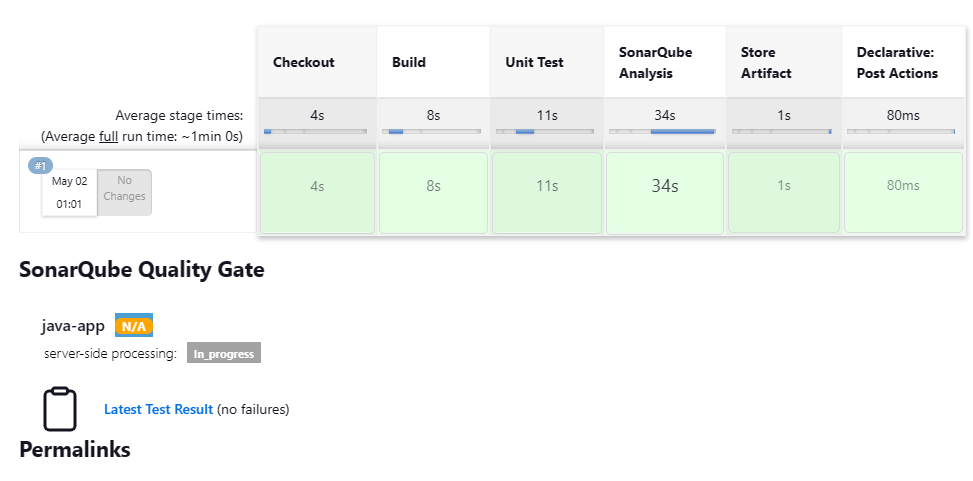
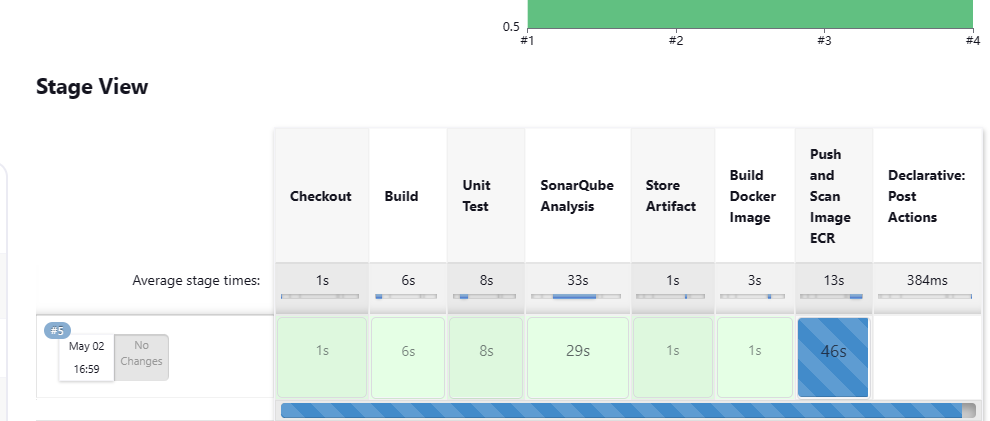
updated README.md with new features

diff --git a/README.md b/README.md
@@ -8,16 +8,18 @@
 
 ![Pipeline](/images/pipeline-diagram.jpg)
 
-This project demonstrates a continuous integration and continuous delivery (CI/CD) pipeline for a Java application using Jenkins. The pipeline automates the build, test, static code analysis, and artifact deployment processes.
+This project demonstrates a continuous integration and continuous delivery (CI/CD) pipeline for a Java application using Jenkins. The pipeline automates the build, test, static code analysis, artifact deployment, Docker image creation, and image pushing to Amazon ECR processes.
 
 ## Prerequisites
 
 Before setting up the pipeline, ensure the following prerequisites are met:
 
-- AWS EC2 instances are provisioned with Ubuntu: one public for Jenkins, one private for SonarQube, and one private for Nexus Repository.
+- AWS EC2 instances are provisioned with Ubuntu: one public for Jenkins, one private for SonarQube, one private for Nexus Repository, and one for hosting Docker containers.
 - Jenkins server is set up and accessible.
 - SonarQube server is installed and configured for static code analysis.
 - Sonatype Nexus Repository Manager is installed and configured.
+- Docker is installed on the Jenkins server.
+- Amazon Elastic Container Registry (ECR) repository is created and configured.
 
 ## Pipeline Overview
 
@@ -28,7 +30,8 @@ The Jenkins pipeline consists of several stages:
 3. **Unit Test**: Maven runs unit tests and collects test results.
 4. **SonarQube Analysis**: Static code analysis is performed using SonarQube.
 5. **Store Artifact**: The built artifact (JAR file) is uploaded to the Nexus Repository.
-6. **Post-build**: Cleanup tasks are executed, including workspace deletion.
+6. **Build Docker Image**: Docker image for the application is built.
+7. **Push and Scan Image ECR**: The Docker image is pushed to Amazon ECR and scanned for vulnerabilities.
 
 ## How to Use
 
@@ -45,13 +48,24 @@ Follow these steps to use the CI/CD pipeline:
 ## Additional Images
 
 - **Webhook Configuration**:
+
   ![Webhook Configuration](/images/webhook.png)
 
 - **Jenkins Stage View**:
+
   ![Jenkins Stage View](/images/stage-view.png)
 
 - **Artifact Upload in Nexus Repository**:
+
   ![Artifact Upload](/images/artifact.png)
+
+- **New Feature Triggered by Jenkins and Webhook**:
+
+  ![New Feature Triggered](/images/featureone.png)
+
+- **Image Successfully Uploaded to ECR**:
+
+  ![ECR Upload](/images/ecr.png)
 
 ## AWS Infrastructure
 
@@ -60,5 +74,7 @@ The project assumes the following AWS infrastructure setup:
 - **Jenkins Server**: Public EC2 instance accessible from the internet.
 - **SonarQube Server**: Private EC2 instance accessible only from the Jenkins server.
 - **Nexus Repository Server**: Private EC2 instance accessible only from the Jenkins server.
+- **Docker Host**: EC2 instance for hosting Docker containers.
+- **Amazon ECR**: Elastic Container Registry repository for storing Docker images.
 
 Ensure proper security group configurations and network access to these instances.
